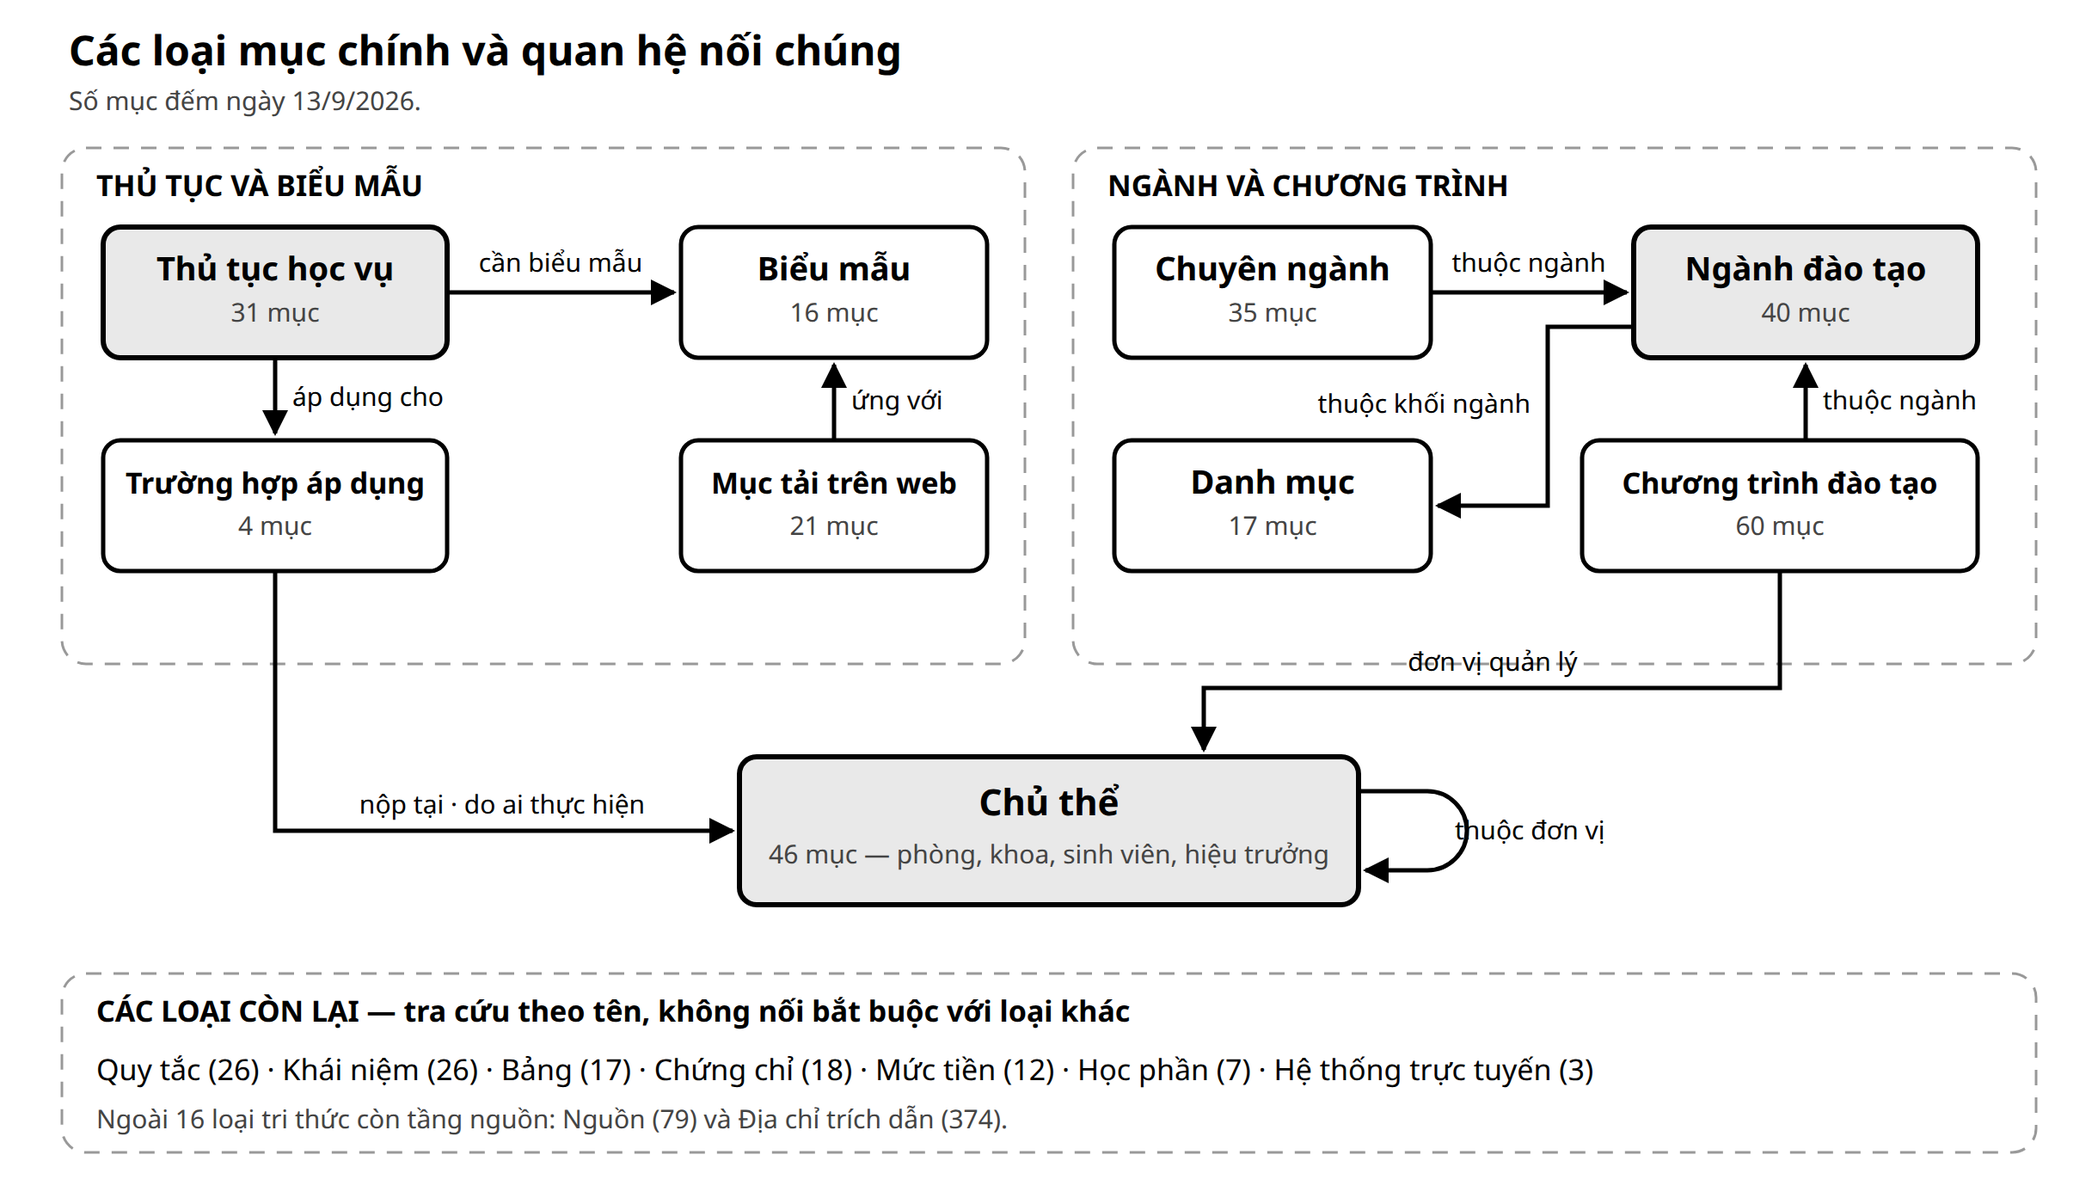
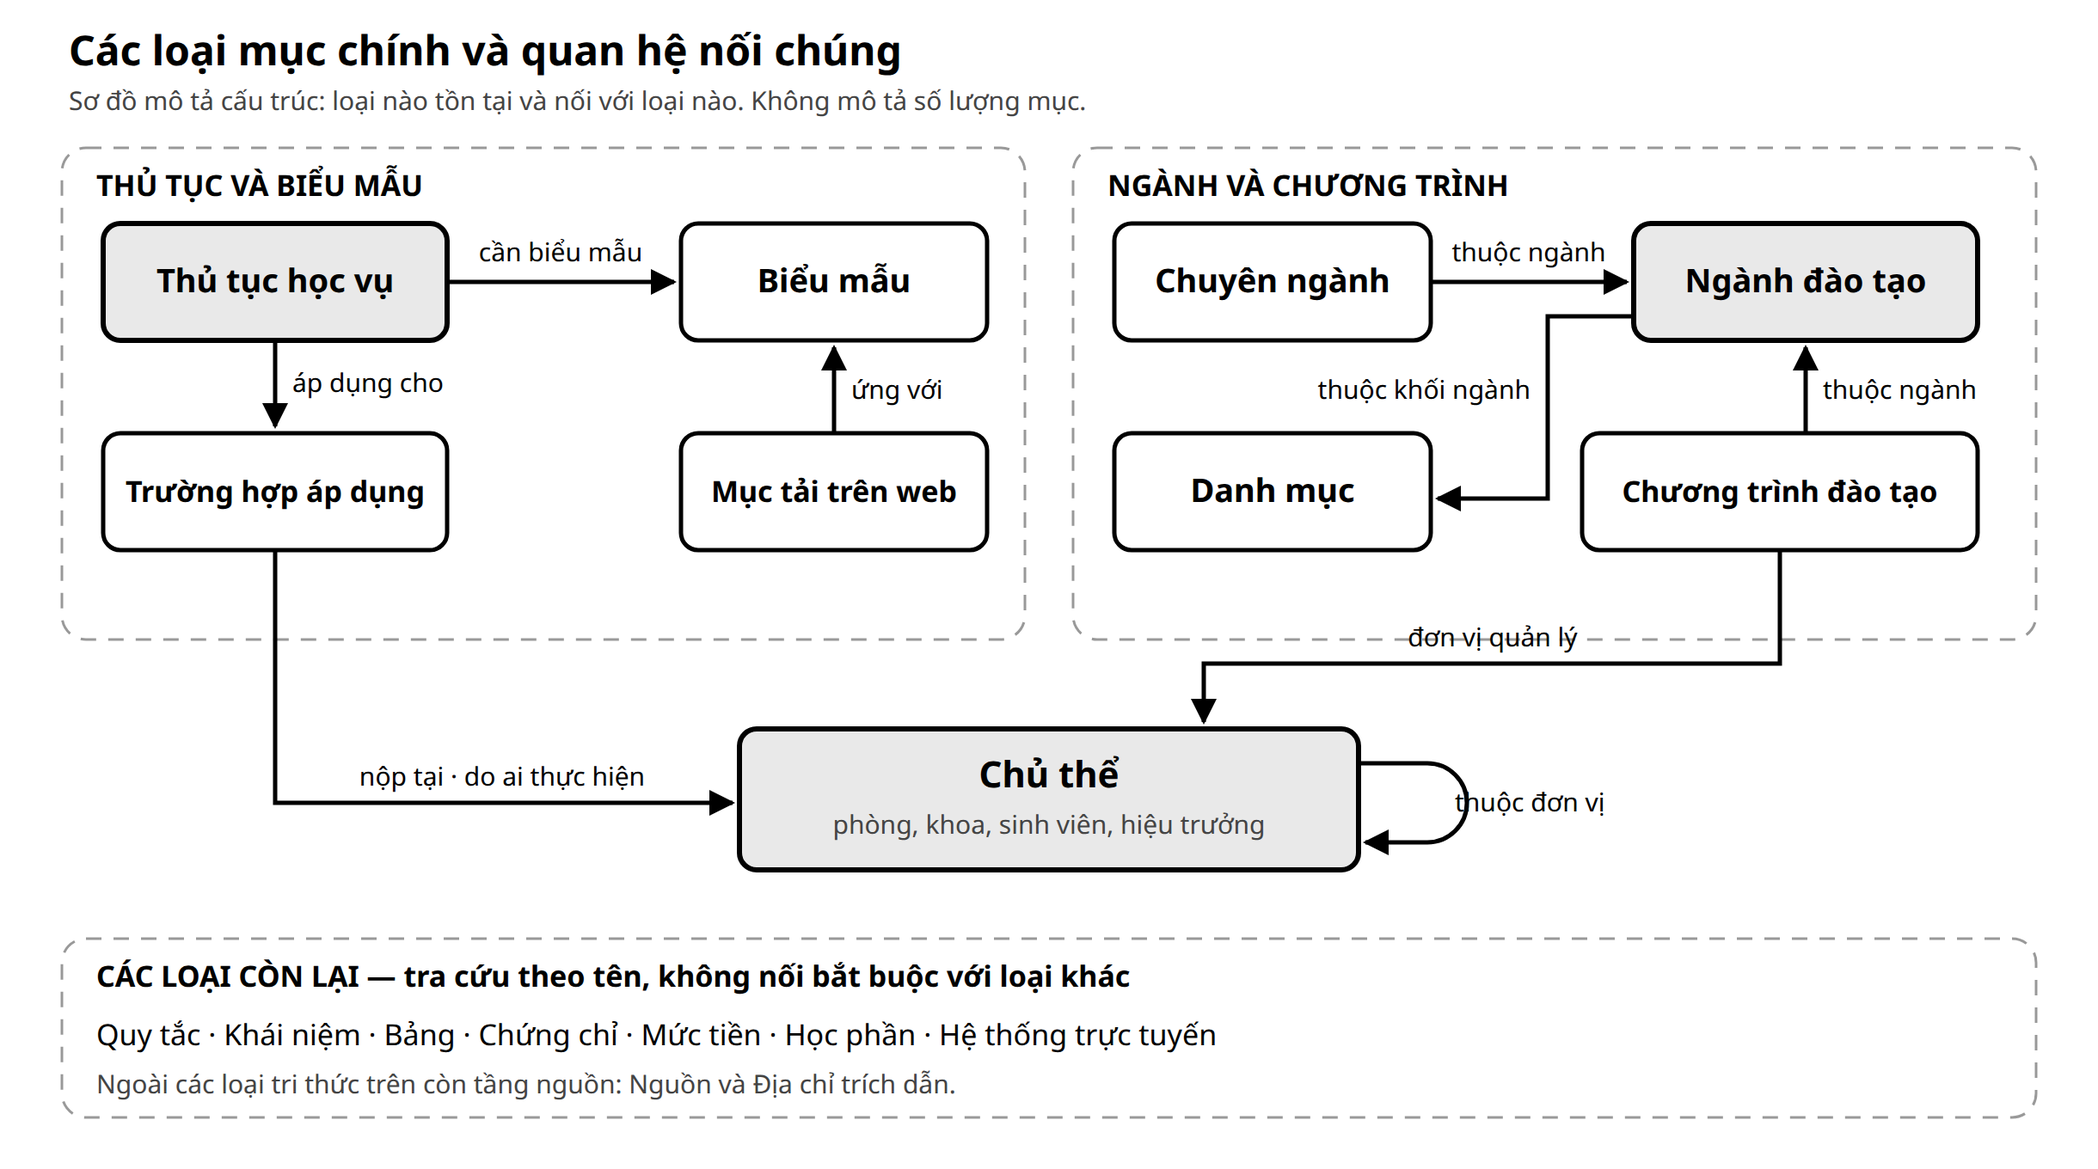
docs: present the ontology by structure instead of by counts
Ontology vẫn đang được xây dựng nên mọi con số quy mô sẽ sai ngay sau lần nhập
dữ liệu kế tiếp. Gỡ hết các số đó khỏi README và khỏi sơ đồ bản đồ loại: bảng
loại chỉ còn Loại | Lớp | Chứa gì, các hộp trong hình không còn số mục, mục 5.7
không còn thống kê phát biểu và nguồn.

Thay bằng hai cách đọc số luôn đúng với tệp hiện có: trang quản trị hiện số mục
bên cạnh tên mỗi loại, và lệnh ontology_search build in số dòng chỉ mục.

Giữ nguyên số đo ở mục 8 và 9 vì đó là kết quả thật, nhưng đóng khung rõ là kết
quả sơ bộ đo trên phiên bản dữ liệu đang xây dựng. Nêu việc ontology chưa đầy đủ
thành hạn chế đầu tiên và việc nhập cho đủ phạm vi thành hướng cải tiến số một.

diff --git a/README.md b/README.md
@@ -37,9 +37,10 @@ ba yêu cầu:
 2. khi dữ liệu không có điều được hỏi, hệ thống phải nói là không có;
 3. khi văn bản thay đổi, dữ liệu phải sửa được ngay mà không cần huấn luyện lại gì.
 
-Phạm vi hiện có gồm quy tắc đào tạo, thủ tục học vụ, biểu mẫu, học bổng, rèn luyện
+Phạm vi nhắm tới gồm quy tắc đào tạo, thủ tục học vụ, biểu mẫu, học bổng, rèn luyện
 và kỷ luật, chứng chỉ, ngành, chuyên ngành, chương trình đào tạo và các đơn vị phục
-vụ sinh viên. Những dữ liệu phụ thuộc từng người hoặc từng đợt, như điểm của một
+vụ sinh viên; dữ liệu hiện mới phủ một phần phạm vi này và đang được bổ sung dần.
+Những dữ liệu phụ thuộc từng người hoặc từng đợt, như điểm của một
 sinh viên, học phí của một tài khoản hay điểm chuẩn, không được lưu thành một con số
 chung; hệ thống chỉ người dùng đến nơi tra cứu chính thức.
 
@@ -279,31 +280,31 @@ vế cùng họ với TriG. Đoạn rút gọn cho thủ tục học vụ:
 giá trị trỏ tới đúng loại; `:batBuocNguon true` là quy ước riêng của dự án: câu của ô
 đó phải nằm trong một túi trích dẫn.
 
-Sơ đồ sau trả lời câu hỏi **"các loại mục nối với nhau bằng những quan hệ nào?"**. Số
-trong mỗi hộp là số mục đếm ngày 13/9/2026, mô tả quy mô chứ không đo chất lượng.
+Sơ đồ sau trả lời câu hỏi **"các loại mục nối với nhau bằng những quan hệ nào?"**. Nó
+mô tả cấu trúc — loại nào tồn tại và nối với loại nào — chứ không mô tả số lượng mục.
 
 ![Bản đồ các loại tri thức](docs/images/ban-do-loai.png)
 
-| Loại | Lớp | Số mục | Chứa gì |
-|---|---|---:|---|
-| Thủ tục học vụ | `ThuTucHocVu` | 31 | nội dung, người thực hiện, nơi nộp, biểu mẫu, trường hợp áp dụng |
-| Quy tắc | `QuyTac` | 26 | quy định học vụ: cảnh báo, buộc thôi học, khối lượng đăng ký, thời gian đào tạo |
-| Khái niệm | `KhaiNiem` | 26 | khái niệm học vụ: học kỳ, loại học phần, điểm rèn luyện |
-| Chủ thể | `ChuThe` | 46 | đơn vị trong trường và vai trò: phòng, khoa, sinh viên, hiệu trưởng |
-| Ngành đào tạo | `NganhDaoTao` | 40 | tên ngành, mã ngành, khối ngành |
-| Chuyên ngành | `ChuyenNganh` | 35 | chuyên ngành và ngành chứa nó |
-| Chương trình đào tạo | `ChuongTrinhDaoTao` | 60 | thời gian, ngôn ngữ, văn bằng, tổng tín chỉ, đơn vị quản lý |
-| Biểu mẫu theo quyết định | `BieuMauTheoQuyetDinh` | 16 | mẫu đơn trong phụ lục quy chế |
-| Mục biểu mẫu trên website | `MucBieuMauTrenWebsite` | 21 | đường tải biểu mẫu |
-| Bảng | `Bang` | 17 | bảng chép nguyên văn từng ô |
-| Chứng chỉ | `ChungChi` | 18 | chứng chỉ ngoại ngữ và tin học |
-| Danh mục | `DanhMuc` | 17 | danh mục dùng chung: khối ngành, ngân hàng, đơn vị tính |
-| Mức tiền | `MucTien` | 12 | mức học bổng, lệ phí |
-| Học phần | `HocPhan` | 7 | học phần có quy định riêng |
-| Trường hợp áp dụng | `TruongHopApDung` | 4 | trường hợp mà thủ tục áp dụng |
-| Hệ thống trực tuyến | `HeThongTrucTuyen` | 3 | cổng thông tin sinh viên và các hệ thống tương tự |
-| *Nguồn* | `Nguon` | 79 | văn bản và trang web làm căn cứ |
-| *Địa chỉ trích dẫn* | `DiaChiTrichDan` | 374 | toạ độ trong nguồn, cũng là tên túi |
+| Loại | Lớp | Chứa gì |
+|---|---|---|
+| Thủ tục học vụ | `ThuTucHocVu` | nội dung, người thực hiện, nơi nộp, biểu mẫu, trường hợp áp dụng |
+| Quy tắc | `QuyTac` | quy định học vụ: cảnh báo, buộc thôi học, khối lượng đăng ký, thời gian đào tạo |
+| Khái niệm | `KhaiNiem` | khái niệm học vụ: học kỳ, loại học phần, điểm rèn luyện |
+| Chủ thể | `ChuThe` | đơn vị trong trường và vai trò: phòng, khoa, sinh viên, hiệu trưởng |
+| Ngành đào tạo | `NganhDaoTao` | tên ngành, mã ngành, khối ngành |
+| Chuyên ngành | `ChuyenNganh` | chuyên ngành và ngành chứa nó |
+| Chương trình đào tạo | `ChuongTrinhDaoTao` | thời gian, ngôn ngữ, văn bằng, tổng tín chỉ, đơn vị quản lý |
+| Biểu mẫu theo quyết định | `BieuMauTheoQuyetDinh` | mẫu đơn trong phụ lục quy chế |
+| Mục biểu mẫu trên website | `MucBieuMauTrenWebsite` | đường tải biểu mẫu |
+| Bảng | `Bang` | bảng chép nguyên văn từng ô |
+| Chứng chỉ | `ChungChi` | chứng chỉ ngoại ngữ và tin học |
+| Danh mục | `DanhMuc` | danh mục dùng chung: khối ngành, ngân hàng, đơn vị tính |
+| Mức tiền | `MucTien` | mức học bổng, lệ phí |
+| Học phần | `HocPhan` | học phần có quy định riêng |
+| Trường hợp áp dụng | `TruongHopApDung` | trường hợp mà thủ tục áp dụng |
+| Hệ thống trực tuyến | `HeThongTrucTuyen` | cổng thông tin sinh viên và các hệ thống tương tự |
+| *Nguồn* | `Nguon` | văn bản và trang web làm căn cứ |
+| *Địa chỉ trích dẫn* | `DiaChiTrichDan` | toạ độ trong nguồn, cũng là tên túi |
 
 ### 5.6 Dữ liệu được biên soạn và đối chiếu nguồn thế nào?
 
@@ -322,17 +323,19 @@ Các quy tắc biên soạn:
 - không lưu dữ liệu riêng của từng sinh viên và dữ liệu theo đợt (học phí từng tài
   khoản, điểm chuẩn); chỉ lưu đường dẫn tới nơi tra cứu chính thức.
 
-79 nguồn hiện có gồm 48 văn bản chương trình đào tạo, 18 hướng dẫn và trang web
-chính thức, 7 quyết định, 4 quy chế và 2 danh mục biểu mẫu.
+Các nguồn hiện có gồm văn bản chương trình đào tạo, quy chế, quyết định, hướng dẫn và
+trang chính thức của các phòng ban, cùng danh mục biểu mẫu.
 
-### 5.7 Ontology hiện lớn cỡ nào?
+### 5.7 Tình trạng dữ liệu hiện tại
 
-Tính đến ngày 13/9/2026, tệp có **4.082 phát biểu**: 1.211 nằm trong túi trích dẫn —
-đây là các câu mang nội dung, đều có nguồn — và 2.871 nằm ngoài túi, gồm danh tính của
-mục, tầng nguồn, và tên của các loại và thuộc tính. Dữ liệu trải trên **18 loại mục**
-(16 loại tri thức cộng 2 loại của tầng nguồn), mỗi loại có đúng một shape trong lược
-đồ. Tầng nguồn gồm **79 nguồn** và **374 địa chỉ trích dẫn**, tức 374 túi. Các số này
-mô tả quy mô, không đo độ đúng hay độ đầy đủ.
+Ontology **đang trong quá trình xây dựng**: lược đồ và cấu trúc đã ổn định, nhưng nội
+dung mới phủ một phần phạm vi ở mục 1 và vẫn đang được bổ sung. Vì vậy README không ghi
+cứng số mục của từng loại — con số ấy sẽ sai ngay sau lần nhập dữ liệu kế tiếp.
+
+Muốn biết quy mô tại một thời điểm thì đọc thẳng từ dữ liệu, luôn đúng với tệp hiện có:
+
+- **trang quản trị** hiện số mục bên cạnh tên mỗi loại (mục 7);
+- lệnh `uv run ontology_search build` in ra số dòng chỉ mục đang có và phân loại chúng.
 
 ### 5.8 Kiểm định ontology chứng minh được gì?
 
@@ -342,7 +345,7 @@ Các phép kiểm tự động trên tệp thật xác nhận:
 - mọi ô bắt buộc gắn nguồn đều nằm trong túi;
 - quy tắc trích dẫn: không có địa chỉ rỗng, mỗi chỗ trong nguồn chỉ có một địa chỉ,
   một văn bản không khẳng định cùng một dữ kiện ở hai chỗ;
-- 17 bảng khớp bản chép trong `references/` đến từng ký tự;
+- các bảng đã nhập khớp bản chép trong `references/` đến từng ký tự;
 - các kiểu câu hỏi tiêu biểu tìm ra đúng mục.
 
 Các phép kiểm đó **không** chứng minh tập nguồn đầy đủ, mọi diễn giải đúng về pháp lý,
@@ -372,8 +375,8 @@ khởi động, mỗi mục của tầng tri thức sinh ba loại dòng:
 
 Giá trị không vào chỉ mục: người ta hỏi "học phí ngành nào", không hỏi bằng con số.
 Giá trị đến tay LLM ở bước đọc hồ sơ. Tầng nguồn cũng không vào chỉ mục, và ba thuộc
-tính chỉ chứa đường dẫn hoặc hộp thư không sinh dòng. Ontology hiện tại sinh 1.766
-dòng cho 379 mục: 733 dòng tên, 518 dòng thuộc tính, 515 dòng quan hệ.
+tính chỉ chứa đường dẫn hoặc hộp thư không sinh dòng. Số dòng chỉ mục vì thế lớn hơn số
+mục vài lần, và tăng theo dữ liệu; lệnh `ontology_search build` in ra con số hiện tại.
 
 ### 6.2 Tách từ
 
@@ -466,6 +469,12 @@ phải huấn luyện lại gì. Đo trên máy phát triển, một lần lưu 
 
 ## 8. Thực nghiệm được thiết lập thế nào?
 
+> **Kết quả ở mục 8 và 9 là sơ bộ.** Chúng đo trên phiên bản ontology ngày 13/9/2026,
+> khi dữ liệu mới phủ một phần phạm vi nêu ở mục 1 và vẫn đang được bổ sung. Vì vậy
+> chúng cho biết cách tiếp cận có chạy được trên phần dữ liệu đã có hay không, **không
+> phải** độ chính xác của một hệ thống hoàn chỉnh. Bổ sung dữ liệu sẽ làm các con số này
+> thay đổi — trích dẫn con số nào cũng phải kèm phiên bản dữ liệu đã đo.
+
 ### 8.1 Bộ kiểm tìm kiếm
 
 Bộ kiểm [`retrieval.json`](resources/end-to-end/retrieval.json) đo riêng câu hỏi
@@ -545,10 +554,13 @@ và có dữ liệu, được đánh dấu đáng ngờ để đọc lại trong
 | `tests/search` | 47 | tách từ, chỉ mục, xếp hạng, hồ sơ, trích dẫn, lược đồ và các câu hỏi tiêu biểu trên ontology thật |
 | `tests/admin` | 11 | lược đồ form, thêm, sửa, xoá, từ chối và các đường API quản trị |
 | `tests/ci` | 6 | cấu hình ảnh Docker và quy trình phát hành |
-| `tests/ontology` | 1 | 17 bảng khớp bản chép nguyên văn |
+| `tests/ontology` | 1 | các bảng khớp bản chép nguyên văn |
 | `webui` | 8 + 19 | proxy tới máy chủ; hành vi giao diện trong trình duyệt |
 
 ## 9. Kiểm thử và kết quả
+
+*Đọc kèm khung cảnh báo ở đầu mục 8: đây là số đo trên một phiên bản dữ liệu đang xây
+dựng, không phải kết quả của hệ thống hoàn chỉnh.*
 
 ### 9.1 Tìm kiếm
 
@@ -645,10 +657,10 @@ Trên bộ kiểm cố định, tìm kiếm theo từ khoá trên ontology đưa
 52/58 câu có mục đích, không có câu sai, và từ chối đúng 19/19 câu phải từ chối. Mỗi
 lượt mất trung vị 2,0 giây, trong đó tra cứu chỉ vài mili giây.
 
-Các kết quả cho thấy chuỗi LLM → công cụ tìm kiếm → ontology có nguồn là khả thi cho
-phạm vi học vụ đã cấu trúc. Chúng không chứng minh hệ thống bao quát toàn bộ quy định,
-hoạt động tương tự trên câu hỏi thật chưa quan sát, hoặc tốt hơn các cách tiếp cận
-chưa được đem so sánh.
+Các kết quả cho thấy chuỗi LLM → công cụ tìm kiếm → ontology có nguồn là khả thi trên
+phần dữ liệu đã cấu trúc. Chúng **không** chứng minh hệ thống bao quát toàn bộ quy định
+— ontology vẫn đang được xây dựng — cũng không chứng minh hệ thống hoạt động tương tự
+trên câu hỏi thật chưa quan sát, hay tốt hơn các cách tiếp cận chưa được đem so sánh.
 
 ### 11.2 Ưu điểm ở cấp độ thiết kế
 
@@ -666,33 +678,39 @@ chưa được đem so sánh.
 
 ### 11.3 Hạn chế
 
-1. **Tìm theo từ vựng:** engine chỉ khớp chữ. Cách gọi không có trong tên hay tên gọi
+1. **Ontology chưa đầy đủ:** đây là hạn chế lớn nhất hiện nay. Cấu trúc và lược đồ đã
+   ổn định, nhưng nội dung mới phủ một phần phạm vi ở mục 1 và đang được bổ sung. Câu
+   hỏi rơi vào phần chưa nhập sẽ nhận câu trả lời "không có thông tin" dù quy định có
+   tồn tại ngoài thực tế. Mọi con số ở mục 9 vì thế là kết quả sơ bộ.
+2. **Tìm theo từ vựng:** engine chỉ khớp chữ. Cách gọi không có trong tên hay tên gọi
    khác của mục sẽ trượt, và chất lượng phụ thuộc vào từ khoá LLM viết.
-2. **Không có ngưỡng:** 3 mục luôn được trả về khi có chữ trùng; LLM phải tự loại mục
+3. **Không có ngưỡng:** 3 mục luôn được trả về khi có chữ trùng; LLM phải tự loại mục
    không đúng ý hỏi và có thể dùng nhầm mục gần đúng.
-3. **Có nguồn không bảo đảm mọi kết luận đúng:** LLM vẫn có thể ghép hai dữ kiện đúng
+4. **Có nguồn không bảo đảm mọi kết luận đúng:** LLM vẫn có thể ghép hai dữ kiện đúng
    thành một quan hệ mà dữ liệu không nói.
-4. **Dữ liệu:** biên soạn và đối chiếu thủ công, chưa có hai người rà độc lập; trang web
+5. **Biên soạn dữ liệu:** đối chiếu thủ công, chưa có hai người rà độc lập; trang web
    có thể đổi sau ngày thu thập; một số thông báo có hạn theo học kỳ.
-5. **Đánh giá:** 85 câu và một lượt chạy; mô hình chấm là cùng mô hình với trợ lý; 5 câu
+6. **Đánh giá:** 85 câu và một lượt chạy; mô hình chấm là cùng mô hình với trợ lý; 5 câu
    được chuyển nhóm theo dữ liệu hiện tại; kiểm tra từ chối bằng cụm từ bỏ sót nhiều
    cách nói.
-6. **Trang quản trị:** bản triển khai hiện ghi vào tệp trong container nên thay đổi mất
+7. **Trang quản trị:** bản triển khai hiện ghi vào tệp trong container nên thay đổi mất
    khi dịch vụ khởi động lại; chỉ có một khoá quản trị chung, không phân quyền, không
    lưu lịch sử sửa; mỗi lần ghi kiểm lại toàn bộ đồ thị nên chậm dần khi dữ liệu lớn lên.
-7. **Chưa đối chứng:** chưa so với cách tìm đoạn văn bản rồi đưa cho LLM (RAG) hay các
+8. **Chưa đối chứng:** chưa so với cách tìm đoạn văn bản rồi đưa cho LLM (RAG) hay các
    cách tiếp cận khác trên cùng bộ câu hỏi.
 
 ## 12. Hướng cải tiến
 
-1. Lưu ontology trên kho bền vững có kiểm tra phiên bản khi ghi, để thay đổi từ trang
+1. Nhập tiếp cho đến khi ontology phủ hết phạm vi ở mục 1, rồi đo lại toàn bộ mục 9
+   trên phiên bản đầy đủ — đây là việc cần làm trước tiên.
+2. Lưu ontology trên kho bền vững có kiểm tra phiên bản khi ghi, để thay đổi từ trang
    quản trị không mất và hai người sửa cùng lúc không ghi đè nhau.
-2. Thêm lịch sử sửa, xem khác biệt trước khi lưu và phân quyền cho trang quản trị.
-3. Biểu diễn thời gian hiệu lực của văn bản để trả lời đúng theo khoá học.
-4. Xây bộ câu hỏi thật từ người dùng, đóng băng trước khi sửa hệ thống; chạy nhiều lượt;
+3. Thêm lịch sử sửa, xem khác biệt trước khi lưu và phân quyền cho trang quản trị.
+4. Biểu diễn thời gian hiệu lực của văn bản để trả lời đúng theo khoá học.
+5. Xây bộ câu hỏi thật từ người dùng, đóng băng trước khi sửa hệ thống; chạy nhiều lượt;
    dùng mô hình chấm khác mô hình trợ lý và thêm người chấm độc lập.
-5. So sánh với RAG trên văn bản gốc trên cùng bộ câu hỏi.
-6. Gợi ý tên gọi khác cho mục từ các từ khoá thật đã trượt.
+6. So sánh với RAG trên văn bản gốc trên cùng bộ câu hỏi.
+7. Gợi ý tên gọi khác cho mục từ các từ khoá thật đã trượt.
 
 ## 13. Tài nguyên và cách chạy thử
 
